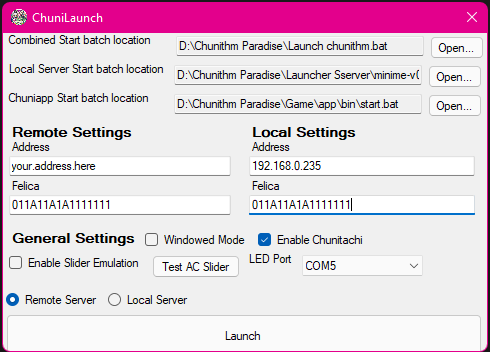
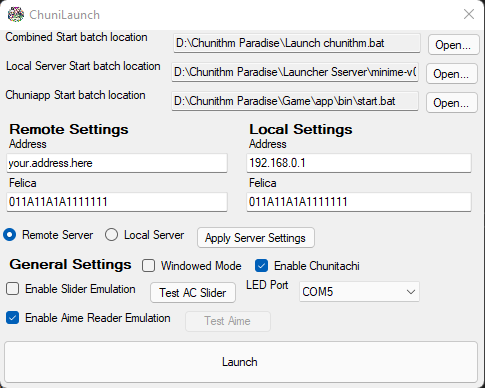
update layout and screenshot, add buttont o apply server change so it's a bit more intuitive

diff --git a/ChuniLaunch/MainWindow.Designer.cs b/ChuniLaunch/MainWindow.Designer.cs
@@ -58,12 +58,13 @@ namespace ChuniLaunch {
             this.bTestACSlider = new System.Windows.Forms.Button();
             this.label11 = new System.Windows.Forms.Label();
             this.cbLEDPort = new System.Windows.Forms.ComboBox();
+            this.cbAimeEmulation = new System.Windows.Forms.CheckBox();
+            this.bTestAimeReader = new System.Windows.Forms.Button();
             this.rbLocalProfile = new System.Windows.Forms.RadioButton();
             this.bLaunch = new System.Windows.Forms.Button();
             this.openFileDialog1 = new System.Windows.Forms.OpenFileDialog();
             this.bindingSource1 = new System.Windows.Forms.BindingSource(this.components);
-            this.cbAimeEmulation = new System.Windows.Forms.CheckBox();
-            this.bTestAimeReader = new System.Windows.Forms.Button();
+            this.bApplyServer = new System.Windows.Forms.Button();
             this.flpMain.SuspendLayout();
             this.flpRemote.SuspendLayout();
             this.flpLocal.SuspendLayout();
@@ -74,7 +75,7 @@ namespace ChuniLaunch {
             // rbRemoteProfile
             // 
             this.rbRemoteProfile.AutoSize = true;
-            this.rbRemoteProfile.Location = new System.Drawing.Point(3, 281);
+            this.rbRemoteProfile.Location = new System.Drawing.Point(3, 196);
             this.rbRemoteProfile.Name = "rbRemoteProfile";
             this.rbRemoteProfile.Size = new System.Drawing.Size(96, 17);
             this.rbRemoteProfile.TabIndex = 0;
@@ -96,9 +97,10 @@ namespace ChuniLaunch {
             this.flpMain.Controls.Add(this.bChuniOpen);
             this.flpMain.Controls.Add(this.flpRemote);
             this.flpMain.Controls.Add(this.flpLocal);
-            this.flpMain.Controls.Add(this.flowLayoutPanel1);
             this.flpMain.Controls.Add(this.rbRemoteProfile);
             this.flpMain.Controls.Add(this.rbLocalProfile);
+            this.flpMain.Controls.Add(this.bApplyServer);
+            this.flpMain.Controls.Add(this.flowLayoutPanel1);
             this.flpMain.Controls.Add(this.bLaunch);
             this.flpMain.Dock = System.Windows.Forms.DockStyle.Fill;
             this.flpMain.Location = new System.Drawing.Point(0, 0);
@@ -225,7 +227,6 @@ namespace ChuniLaunch {
             this.tbRemoteAddress.Name = "tbRemoteAddress";
             this.tbRemoteAddress.Size = new System.Drawing.Size(222, 20);
             this.tbRemoteAddress.TabIndex = 13;
-            this.tbRemoteAddress.TextChanged += new System.EventHandler(this.tbRemoteAddress_TextChanged);
             // 
             // label6
             // 
@@ -288,7 +289,6 @@ namespace ChuniLaunch {
             this.tbLocalAddress.Name = "tbLocalAddress";
             this.tbLocalAddress.Size = new System.Drawing.Size(226, 20);
             this.tbLocalAddress.TabIndex = 15;
-            this.tbLocalAddress.TextChanged += new System.EventHandler(this.tbLocalServer_TextChanged);
             // 
             // label7
             // 
@@ -318,7 +318,7 @@ namespace ChuniLaunch {
             this.flowLayoutPanel1.Controls.Add(this.cbLEDPort);
             this.flowLayoutPanel1.Controls.Add(this.cbAimeEmulation);
             this.flowLayoutPanel1.Controls.Add(this.bTestAimeReader);
-            this.flowLayoutPanel1.Location = new System.Drawing.Point(3, 196);
+            this.flowLayoutPanel1.Location = new System.Drawing.Point(3, 225);
             this.flowLayoutPanel1.Name = "flowLayoutPanel1";
             this.flowLayoutPanel1.Size = new System.Drawing.Size(469, 79);
             this.flowLayoutPanel1.TabIndex = 20;
@@ -395,33 +395,6 @@ namespace ChuniLaunch {
             this.cbLEDPort.TabIndex = 24;
             this.cbLEDPort.SelectedIndexChanged += new System.EventHandler(this.cbLEDPort_SelectedIndexChanged);
             // 
-            // rbLocalProfile
-            // 
-            this.rbLocalProfile.AutoSize = true;
-            this.rbLocalProfile.Location = new System.Drawing.Point(105, 281);
-            this.rbLocalProfile.Name = "rbLocalProfile";
-            this.rbLocalProfile.Size = new System.Drawing.Size(85, 17);
-            this.rbLocalProfile.TabIndex = 1;
-            this.rbLocalProfile.TabStop = true;
-            this.rbLocalProfile.Text = "Local Server";
-            this.rbLocalProfile.UseVisualStyleBackColor = true;
-            this.rbLocalProfile.CheckedChanged += new System.EventHandler(this.rbLocalProfile_CheckedChanged);
-            // 
-            // bLaunch
-            // 
-            this.bLaunch.Location = new System.Drawing.Point(3, 304);
-            this.bLaunch.Name = "bLaunch";
-            this.bLaunch.Size = new System.Drawing.Size(476, 44);
-            this.bLaunch.TabIndex = 2;
-            this.bLaunch.Text = "Launch";
-            this.bLaunch.UseVisualStyleBackColor = true;
-            this.bLaunch.Click += new System.EventHandler(this.bLaunch_Click);
-            // 
-            // openFileDialog1
-            // 
-            this.openFileDialog1.FileName = "openFileDialog1";
-            this.openFileDialog1.Filter = "Batch Files|*.bat|All files| *.*";
-            // 
             // cbAimeEmulation
             // 
             this.cbAimeEmulation.AutoSize = true;
@@ -442,6 +415,43 @@ namespace ChuniLaunch {
             this.bTestAimeReader.Text = "Test Aime Reader";
             this.bTestAimeReader.UseVisualStyleBackColor = true;
             this.bTestAimeReader.Click += new System.EventHandler(this.bTestAimeReader_Click);
+            // 
+            // rbLocalProfile
+            // 
+            this.rbLocalProfile.AutoSize = true;
+            this.rbLocalProfile.Location = new System.Drawing.Point(105, 196);
+            this.rbLocalProfile.Name = "rbLocalProfile";
+            this.rbLocalProfile.Size = new System.Drawing.Size(85, 17);
+            this.rbLocalProfile.TabIndex = 1;
+            this.rbLocalProfile.TabStop = true;
+            this.rbLocalProfile.Text = "Local Server";
+            this.rbLocalProfile.UseVisualStyleBackColor = true;
+            this.rbLocalProfile.CheckedChanged += new System.EventHandler(this.rbLocalProfile_CheckedChanged);
+            // 
+            // bLaunch
+            // 
+            this.bLaunch.Location = new System.Drawing.Point(3, 310);
+            this.bLaunch.Name = "bLaunch";
+            this.bLaunch.Size = new System.Drawing.Size(476, 44);
+            this.bLaunch.TabIndex = 2;
+            this.bLaunch.Text = "Launch";
+            this.bLaunch.UseVisualStyleBackColor = true;
+            this.bLaunch.Click += new System.EventHandler(this.bLaunch_Click);
+            // 
+            // openFileDialog1
+            // 
+            this.openFileDialog1.FileName = "openFileDialog1";
+            this.openFileDialog1.Filter = "Batch Files|*.bat|All files| *.*";
+            // 
+            // bApplyServer
+            // 
+            this.bApplyServer.Location = new System.Drawing.Point(196, 196);
+            this.bApplyServer.Name = "bApplyServer";
+            this.bApplyServer.Size = new System.Drawing.Size(120, 23);
+            this.bApplyServer.TabIndex = 21;
+            this.bApplyServer.Text = "Apply Server Settings";
+            this.bApplyServer.UseVisualStyleBackColor = true;
+            this.bApplyServer.Click += new System.EventHandler(this.bApplyServer_Click);
             // 
             // MainWindow
             // 
@@ -509,6 +519,7 @@ namespace ChuniLaunch {
         private System.Windows.Forms.ComboBox cbLEDPort;
         private System.Windows.Forms.CheckBox cbAimeEmulation;
         private System.Windows.Forms.Button bTestAimeReader;
+        private System.Windows.Forms.Button bApplyServer;
     }
 }
 

diff --git a/ChuniLaunch/MainWindow.cs b/ChuniLaunch/MainWindow.cs
@@ -147,20 +147,6 @@ namespace ChuniLaunch {
             }
         }
 
-        private void tbRemoteAddress_TextChanged(object sender, EventArgs e) {
-            if (ini != null) {
-                remoteServerAddress = tbRemoteAddress.Text;
-                ini.Write("remoteServer", remoteServerAddress);
-            }
-        }
-
-        private void tbLocalServer_TextChanged(object sender, EventArgs e) {
-            if (ini != null) {
-                localServerAddress = tbLocalAddress.Text;
-                ini.Write("localServer", localServerAddress);
-            }
-        }
-
         private void tbRemoteFelica_TextChanged(object sender, EventArgs e) {
             if (ini != null) {
                 remoteFelica = tbRemoteFelica.Text;
@@ -244,6 +230,13 @@ namespace ChuniLaunch {
             var testWnd = new AimeTestWindow();
             testWnd.ShowDialog();
             testWnd.Close();
+        }
+
+        private void bApplyServer_Click(object sender, EventArgs e) {
+            if (rbRemoteProfile.Checked)
+                ChangeProfile(Status.Remote);
+            else if (rbLocalProfile.Checked)
+                ChangeProfile(Status.Local);
         }
     }
 }
